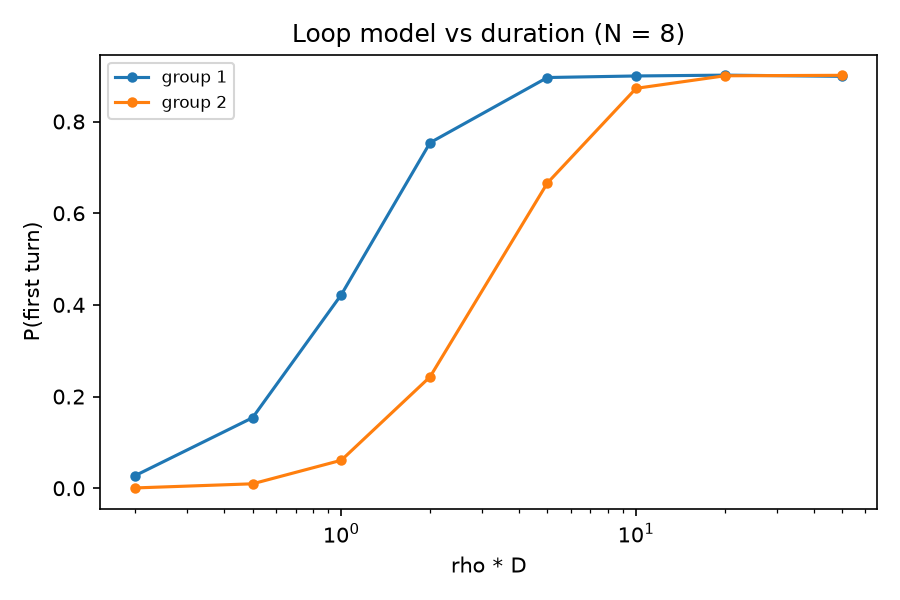
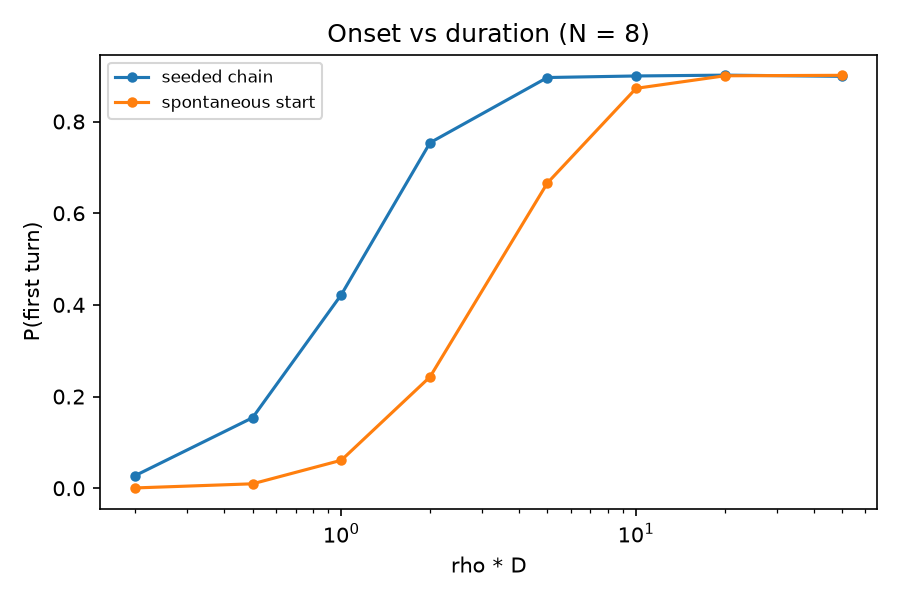
Name the simulated starts seeded and spontaneous, and add the results plot
The simulation's two cases are now labelled as a seeded chain and a
spontaneous start in the figures and summary. plot_results.py draws the
reaction rates per condition and model with 95% intervals.

Changed region(s): [[0.3422, 0.03, 0.7778, 0.09], [0.1867, 0.09, 0.3733, 0.21]]

diff --git a/scripts/validate_loop.py b/scripts/validate_loop.py
@@ -1,7 +1,7 @@
 """Sanity checks for the loop model.
 
 1. Exact cases (N = 2, fast-encounter limit) against the simulation.
-2. Scale: P(first turn) vs number of agents, both groups.
+2. Scale: P(first turn) vs number of agents, for seeded and spontaneous starts.
 3. Duration: P(first turn) vs rho * D.
 
 Writes figures to results/figures/ and loop_summary.md to results/.
@@ -40,7 +40,7 @@ EXACT_CASES = [  # (group, s, r, b); s is unused in group 1, where S = 1
 
 def exact_checks() -> list[str]:
     lines = ["## Exact cases (N = 2): P = S * r * b", "", f"{EXACT_RUNS} runs per cell, D = 1, rho * D = 5000.", "",
-             "| group | s | S | r | b | exact | simulation | z |", "|---|---|---|---|---|---|---|---|"]
+             "| start | s | S | r | b | exact | simulation | z |", "|---|---|---|---|---|---|---|---|"]
     for i, (group, s_rate, r, b) in enumerate(EXACT_CASES):
         params = LoopParams(n=2, s=s_rate or 0.0, r=r, b=b, **FAST)
         start = start_probability(2, params.s, params.duration, group)
@@ -48,7 +48,7 @@ def exact_checks() -> list[str]:
         simulated = estimate(params, group, EXACT_RUNS, seed=100 + i).onset
         z = (simulated - exact) / math.sqrt(exact * (1 - exact) / EXACT_RUNS)
         s_cell = "—" if group == 1 else f"{s_rate}"
-        lines.append(f"| {group} | {s_cell} | {start:.4f} | {r} | {b} | {exact:.4f} | {simulated:.4f} | {z:+.2f} |")
+        lines.append(f"| {'seeded' if group == 1 else 'spontaneous'} | {s_cell} | {start:.4f} | {r} | {b} | {exact:.4f} | {simulated:.4f} | {z:+.2f} |")
     return lines + [""]
 
 
@@ -71,10 +71,10 @@ def main() -> None:
     sizes, scale = scale_sweep()
     fig, ax = plt.subplots(figsize=(6, 4))
     for g, color in ((1, "C0"), (2, "C1")):
-        ax.plot(sizes, scale[g], "o-", color=color, ms=4, label=f"group {g} (simulation)")
+        ax.plot(sizes, scale[g], "o-", color=color, ms=4, label=("seeded chain" if g == 1 else "spontaneous start") + " (simulation)")
     product = [start_probability(n, ILLUSTRATIVE["s"], FAST["duration"], 2) * scale[1][i] for i, n in enumerate(sizes)]
-    ax.plot(sizes, product, "--", color="C1", lw=1, label="S(N) x group 1")
-    ax.set(xscale="log", xlabel="number of agents N", ylabel="P(first turn)", title=f"Loop model vs scale ({ILLUSTRATIVE})")
+    ax.plot(sizes, product, "--", color="C1", lw=1, label="S(N) x seeded")
+    ax.set(xscale="log", xlabel="number of agents N", ylabel="P(first turn)", title=f"Onset vs population size ({ILLUSTRATIVE})")
     ax.set_xticks(sizes, [str(n) for n in sizes], fontsize=7)
     ax.xaxis.set_minor_formatter(plt.NullFormatter())
     ax.legend(fontsize=8)
@@ -84,19 +84,19 @@ def main() -> None:
     spans, duration = duration_sweep()
     fig, ax = plt.subplots(figsize=(6, 4))
     for g, color in ((1, "C0"), (2, "C1")):
-        ax.plot(spans, duration[g], "o-", color=color, ms=4, label=f"group {g}")
-    ax.set(xscale="log", xlabel="rho * D", ylabel="P(first turn)", title="Loop model vs duration (N = 8)")
+        ax.plot(spans, duration[g], "o-", color=color, ms=4, label="seeded chain" if g == 1 else "spontaneous start")
+    ax.set(xscale="log", xlabel="rho * D", ylabel="P(first turn)", title="Onset vs duration (N = 8)")
     ax.legend(fontsize=8)
     fig.tight_layout()
     fig.savefig(FIGURES / "loop_duration.png", dpi=150)
 
-    lines += ["## Scale sweep", "", f"Parameters: {ILLUSTRATIVE}, {SWEEP_RUNS} runs per point. Group 1 is the loop-closing probability L(N);",
-              "in the fast-encounter limit group 2 should equal S(N) x L(N).", "",
-              "| N | S(N) | group 1 = L(N) | group 2 | S(N) x L(N) |", "|---|---|---|---|---|"]
+    lines += ["## Scale sweep", "", f"Parameters: {ILLUSTRATIVE}, {SWEEP_RUNS} runs per point. A seeded chain gives the closure probability L(N);",
+              "in the fast-encounter limit a spontaneous start should equal S(N) x L(N).", "",
+              "| N | S(N) | seeded = L(N) | spontaneous | S(N) x L(N) |", "|---|---|---|---|---|"]
     for i, n in enumerate(sizes):
         start = start_probability(n, ILLUSTRATIVE["s"], FAST["duration"], 2)
         lines.append(f"| {n} | {start:.3f} | {scale[1][i]:.3f} | {scale[2][i]:.3f} | {start * scale[1][i]:.3f} |")
-    lines += ["", "## Duration sweep (N = 8)", "", "| rho * D | group 1 | group 2 |", "|---|---|---|"]
+    lines += ["", "## Duration sweep (N = 8)", "", "| rho * D | seeded | spontaneous |", "|---|---|---|"]
     lines += [f"| {d} | {duration[1][i]:.3f} | {duration[2][i]:.3f} |" for i, d in enumerate(spans)]
     (RESULTS / "loop_summary.md").write_text("\n".join(lines) + "\n")
     print("\n".join(lines))

diff --git a/scripts/plot_results.py b/scripts/plot_results.py
@@ -1,0 +1,66 @@
+"""Plot reaction rates per condition and model (v3 and v4), with 95% Wilson intervals.
+
+    PYTHONPATH=src:scripts python scripts/plot_results.py
+
+Writes results/figures/reactions.png.
+"""
+
+import json
+from pathlib import Path
+
+import matplotlib.pyplot as plt
+
+from harness.testbed import CONDITIONS
+from analyze_calibration import measure, wilson
+
+ROOT = Path(__file__).resolve().parent.parent
+V3 = ROOT / "experiments" / "v3" / "results" / "logs"
+V4 = ROOT / "experiments" / "v4" / "results" / "logs"
+FIGURE = ROOT / "results" / "figures" / "reactions.png"
+
+ORDER = ["blocked-offer", "blocked-addressed", "blocked-reply"]
+MODELS = {
+    "deepseek/deepseek-v4-flash": "DeepSeek-V4-Flash",
+    "anthropic/claude-sonnet-5.5": "Claude Sonnet 5.5",
+    "openai/gpt-5.6-terra": "GPT-5.6 Terra",
+    "google/gemini-3.8-flash": "Gemini 3.8 Flash",
+}
+
+
+def rate(directory: Path, condition: str) -> tuple[int, int]:
+    seen = reacted = 0
+    for f in sorted((directory / condition).glob("run-*.json")):
+        s, r, _ = measure(json.loads(f.read_text()), CONDITIONS[condition].tokens)
+        seen += s
+        reacted += r
+    return reacted, seen
+
+
+def main() -> None:
+    fig, ax = plt.subplots(figsize=(7, 3.6))
+    width = 0.2
+    for i, (model, label) in enumerate(MODELS.items()):
+        xs, ys, lows, highs = [], [], [], []
+        for j, condition in enumerate(ORDER):
+            source = V3 if model == "deepseek/deepseek-v4-flash" and condition != "blocked-addressed" else V4 / model.replace("/", "__")
+            k, n = rate(source, condition)
+            if n == 0:
+                continue
+            lo, hi = wilson(k, n)
+            xs.append(j + (i - 1.5) * width)
+            ys.append(k / n)
+            lows.append(k / n - lo)
+            highs.append(hi - k / n)
+        ax.bar(xs, ys, width, yerr=[lows, highs], capsize=2, label=label)
+    ax.set_xticks(range(len(ORDER)), ["offer,\nnot addressed", "offer,\naddressed by name", "reply to its\nown request"])
+    ax.set_ylabel("share of runs that reacted")
+    ax.set_ylim(0, 1.05)
+    ax.set_title("Blocked agents: share that reacted, by message (95% CI, n = 30 per bar)")
+    ax.legend(fontsize=7, ncol=2)
+    fig.tight_layout()
+    FIGURE.parent.mkdir(parents=True, exist_ok=True)
+    fig.savefig(FIGURE, dpi=200)
+
+
+if __name__ == "__main__":
+    main()

diff --git a/src/loop_model/loop_sim.py b/src/loop_model/loop_sim.py
@@ -12,9 +12,9 @@ first encounter the agent decides once (one-shot):
 A reaction is a new message, open to reactions in turn. Agents never react to
 their own messages.
 
-The groups differ only in the start. In group 1 the first message is already
-in the channel at time 0, written by one of the agents (a planted earlier post).
-In group 2 the channel starts empty and each agent posts first at rate s.
+Two starts: group=1 is a seeded chain (a first message from one of the agents is
+in the channel at time 0); group=2 is a spontaneous start (the channel begins
+empty and each agent posts first at rate s).
 """
 
 import heapq

diff --git a/results/loop_summary.md b/results/loop_summary.md
@@ -4,21 +4,21 @@
 
 200000 runs per cell, D = 1, rho * D = 5000.
 
-| group | s | S | r | b | exact | simulation | z |
+| start | s | S | r | b | exact | simulation | z |
 |---|---|---|---|---|---|---|---|
-| 1 | — | 1.0000 | 0.3 | 0.6 | 0.1800 | 0.1800 | +0.02 |
-| 1 | — | 1.0000 | 0.7 | 0.5 | 0.3500 | 0.3497 | -0.30 |
-| 1 | — | 1.0000 | 0.5 | 0.9 | 0.4500 | 0.4507 | +0.64 |
-| 2 | 0.7 | 0.7534 | 0.3 | 0.6 | 0.1356 | 0.1358 | +0.23 |
-| 2 | 0.7 | 0.7534 | 0.7 | 0.5 | 0.2637 | 0.2626 | -1.11 |
-| 2 | 0.2 | 0.3297 | 0.5 | 0.9 | 0.1484 | 0.1484 | +0.01 |
+| seeded | — | 1.0000 | 0.3 | 0.6 | 0.1800 | 0.1800 | +0.02 |
+| seeded | — | 1.0000 | 0.7 | 0.5 | 0.3500 | 0.3497 | -0.30 |
+| seeded | — | 1.0000 | 0.5 | 0.9 | 0.4500 | 0.4507 | +0.64 |
+| spontaneous | 0.7 | 0.7534 | 0.3 | 0.6 | 0.1356 | 0.1358 | +0.23 |
+| spontaneous | 0.7 | 0.7534 | 0.7 | 0.5 | 0.2637 | 0.2626 | -1.11 |
+| spontaneous | 0.2 | 0.3297 | 0.5 | 0.9 | 0.1484 | 0.1484 | +0.01 |
 
 ## Scale sweep
 
-Parameters: {'s': 0.05, 'r': 0.3, 'b': 0.6}, 5000 runs per point. Group 1 is the loop-closing probability L(N);
-in the fast-encounter limit group 2 should equal S(N) x L(N).
+Parameters: {'s': 0.05, 'r': 0.3, 'b': 0.6}, 5000 runs per point. A seeded chain gives the closure probability L(N);
+in the fast-encounter limit a spontaneous start should equal S(N) x L(N).
 
-| N | S(N) | group 1 = L(N) | group 2 | S(N) x L(N) |
+| N | S(N) | seeded = L(N) | spontaneous | S(N) x L(N) |
 |---|---|---|---|---|
 | 2 | 0.095 | 0.176 | 0.016 | 0.017 |
 | 3 | 0.139 | 0.368 | 0.053 | 0.051 |
@@ -32,7 +32,7 @@ in the fast-encounter limit group 2 should equal S(N) x L(N).
 
 ## Duration sweep (N = 8)
 
-| rho * D | group 1 | group 2 |
+| rho * D | seeded | spontaneous |
 |---|---|---|
 | 0.2 | 0.028 | 0.001 |
 | 0.5 | 0.154 | 0.010 |
